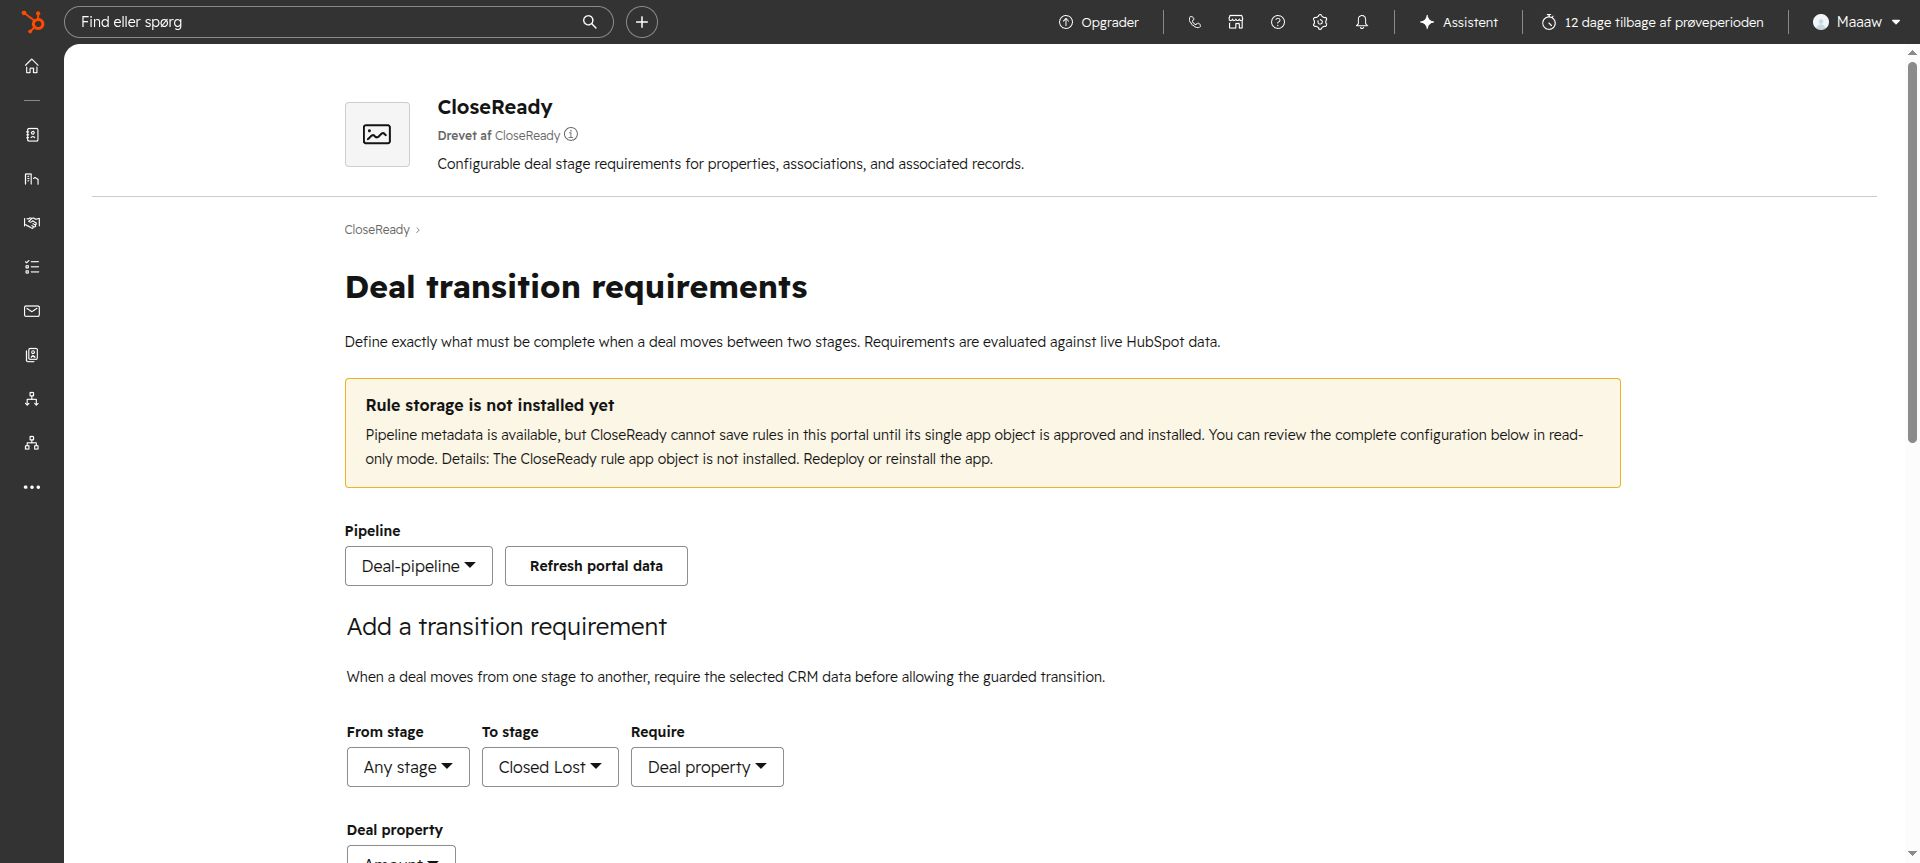
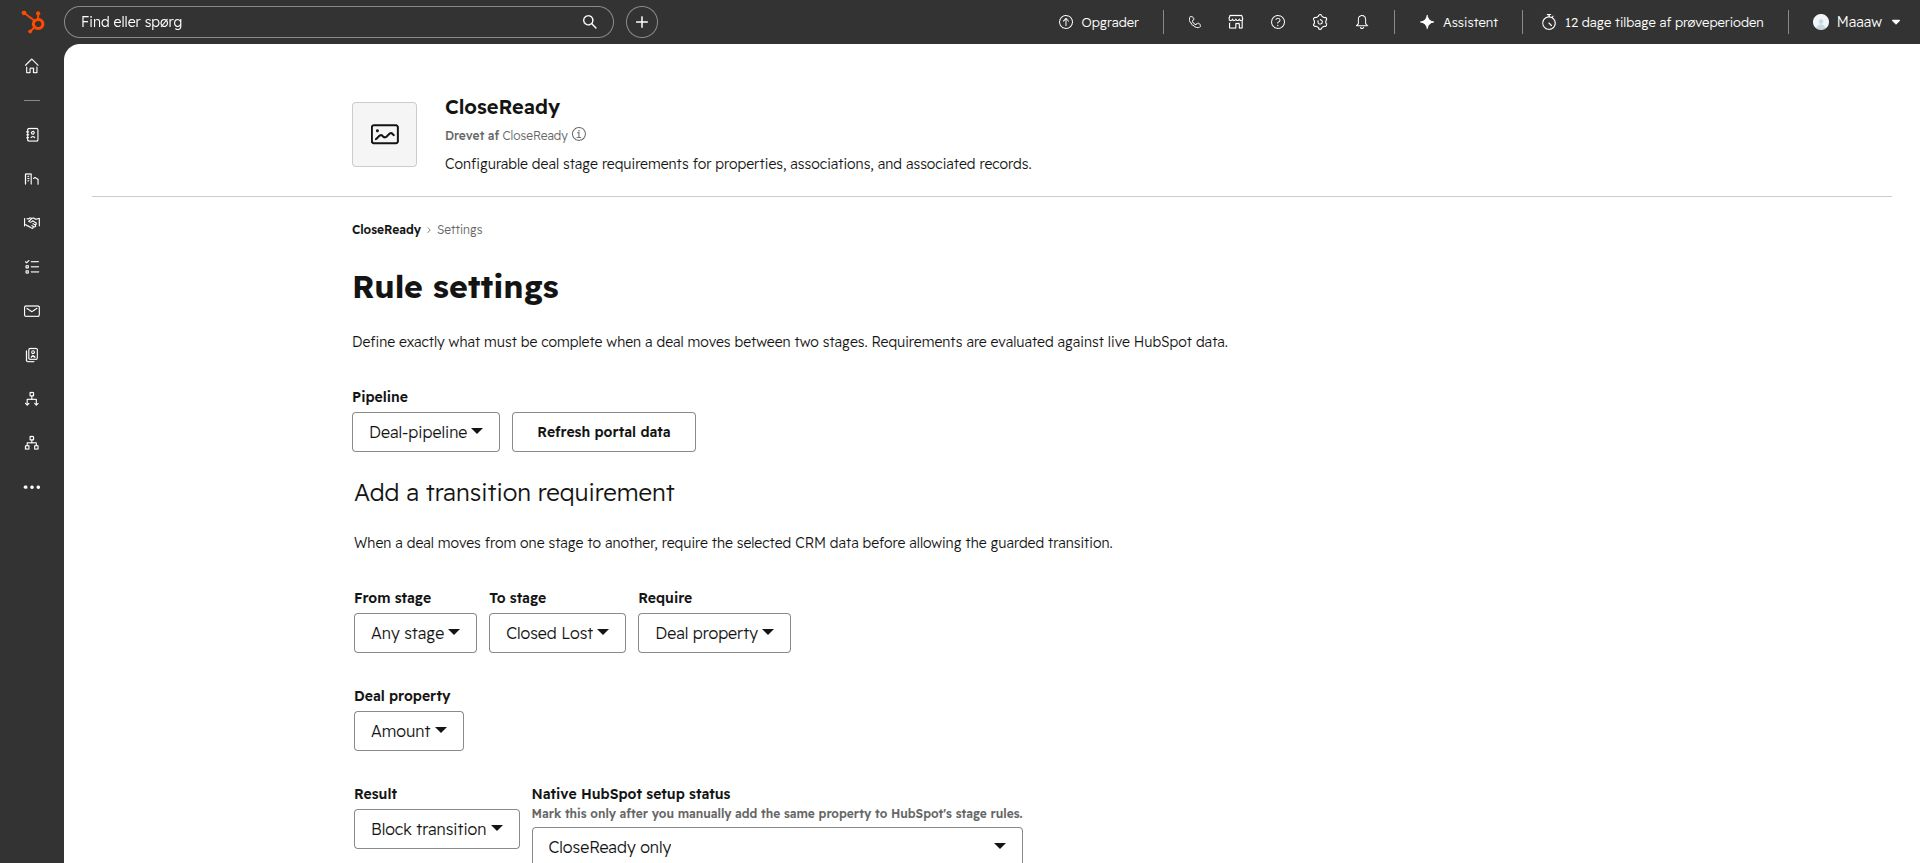
Add CloseReady visual product tour

diff --git a/projects/closeready/docs/product-tour.md b/projects/closeready/docs/product-tour.md
@@ -1,0 +1,65 @@
+# CloseReady product tour
+
+CloseReady gives administrators a rule-authoring surface and gives sales reps a
+guarded deal-stage workflow inside HubSpot. Rules are evaluated against live CRM
+data at the moment a rep checks or performs a transition.
+
+## 1. Confirm setup and coverage
+
+![Pipeline readiness overview](images/overview.png)
+
+The overview answers four operational questions:
+
+- Is the app connected to the current HubSpot portal?
+- Is the single CloseReady rule store available?
+- How many blocking and warning rules are active?
+- Which target stages are governed and which still have no rules?
+
+Coverage is shown per pipeline. A target stage is governed when at least one
+enabled rule applies to a transition entering that stage.
+
+## 2. Define transition requirements
+
+![Transition requirement builder](images/configuration-page.png)
+
+An administrator selects the source stage, target stage, requirement type, and
+result. A source of **Any stage** applies the rule to every move into the target
+stage. Selecting one source creates an exact source-to-target rule.
+
+Supported requirements include:
+
+| Requirement                | Examples                                                                                   |
+| -------------------------- | ------------------------------------------------------------------------------------------ |
+| Deal property              | Amount, close date, owner, custom deal fields                                              |
+| Associated record          | At least one contact or company, optionally with a label such as Primary or Decision maker |
+| Associated record property | City on the Primary company, email on every Decision maker contact                         |
+| Deal metric                | Minimum line items, approved quotes, or open tasks                                         |
+
+Rules can block the transition or show a warning. Existing requirements support
+Edit, Pause, Enable, and confirmed Delete actions. CloseReady rejects duplicate
+requirements on the same transition.
+
+## 3. Check a deal before moving it
+
+![Blocked deal transition](images/deal-blocked.png)
+
+The deal card defaults to the next pipeline stage while allowing another target
+to be selected. **Check readiness** loads current deal properties, associations,
+associated-record properties, and metrics from HubSpot.
+
+The result is intentionally actionable:
+
+- passed requirements are confirmed;
+- warnings remain visible but do not prevent the guarded move;
+- blockers explain the missing data;
+- **Check again** refreshes the evaluation after the rep fixes the deal;
+- **Move to [stage]** only appears when every blocker passes;
+- transitions without configured rules remain unavailable through the card.
+
+## Enforcement boundary
+
+CloseReady governs moves performed through its deal card. HubSpot does not let a
+public UI extension intercept the platform's native stage control. For absolute
+blocking on native stage changes, mirror supported deal-property requirements in
+HubSpot's native pipeline rules. Association labels and associated-record fields
+remain enforced through the CloseReady guarded move.

diff --git a/projects/closeready/README.md b/projects/closeready/README.md
@@ -39,9 +39,27 @@ The HubSpot experience is split into three focused surfaces:
 
 ![CloseReady pipeline overview](docs/images/overview.png)
 
-![CloseReady rule settings](docs/images/rule-settings.png)
+The overview confirms portal access, storage readiness, active rules, and stage
+coverage before administrators begin relying on the guarded workflow.
+
+![CloseReady rule builder](docs/images/configuration-page.png)
+
+Rules can target any source stage or one exact transition. Administrators can
+require deal properties, labeled contact or company associations, fields on
+associated records, line items, approved quotes, or open tasks. Existing rules
+can be edited, paused, re-enabled, or deleted with confirmation.
+
+![CloseReady blocked deal transition](docs/images/deal-blocked.png)
+
+On a deal, the rep selects a target stage and checks live readiness. CloseReady
+lists every pass, warning, and blocker. The move action only appears when all
+blocking requirements pass; an unconfigured transition cannot be moved through
+the card.
 
 ![CloseReady native app settings](docs/images/native-settings.png)
+
+See the [visual product tour](docs/product-tour.md) for the complete workflow
+and supported rule types.
 
 ## Storage that fits the portal
 
